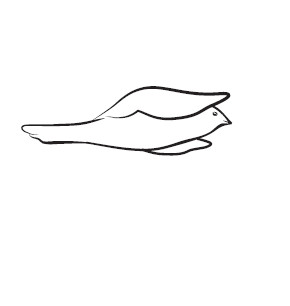
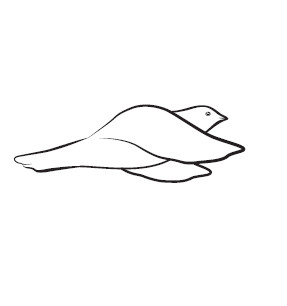
lesson37

Changed region(s): [[0.0279, 0.2647, 0.8641, 0.6176]]

diff --git a/Year 2/Lesson37/index.html b/Year 2/Lesson37/index.html
@@ -10,7 +10,8 @@
             var licznik = 0;
             var flaga = true;
             var aktywuj = true;
-            var grafika = "<img src=\"../../res/klatka/klatka01.jpg\"></img>"
+            var grafika = "<img src=\"../../res/klatka/Lot_ptaka_start/klatka_0-01.jpg\"></img>"
+            var started = 0;
 
             function pierwsza_klatka() {
                 document.getElementById('kino').innerHTML = grafika;
@@ -19,9 +20,12 @@
             function nowa_klatka() {
                 if (flaga) {
                     // if (licznik == 6) licznik--;
-                    if (licznik > 6) licznik = 0; 
+                    if (licznik > 5) {
+                        licznik = 0;
+                        started = !started;
+                    }
                     licznik++;
-                    grafika = `<img src=\"../../res/klatka/klatka0${licznik}.jpg\"></img>`
+                    grafika = !started ? `<img src=\"../../res/klatka/Lot_ptaka_start/klatka_0-0${licznik}.jpg\"></img>` : `<img src=\"../../res/klatka/Lot_ptaka_start/klatka_1-0${licznik}.jpg\"></img>` 
                     document.getElementById('kino').innerHTML = grafika;
                     czas = setTimeout('nowa_klatka()', 1000/formularz.lista.value)
                 }
